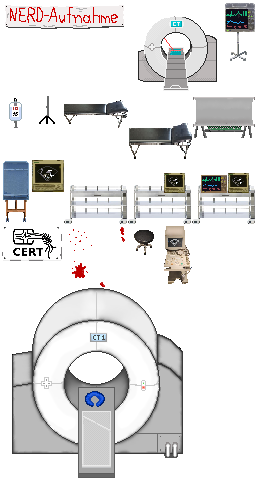
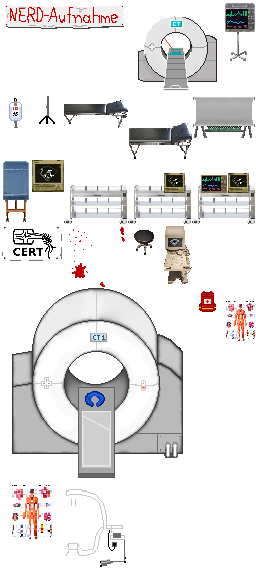
cert_set loaded new

diff --git a/cert_set.tsx b/cert_set.tsx
@@ -1,0 +1,4 @@
+<?xml version="1.0" encoding="UTF-8"?>
+<tileset version="1.4" tiledversion="1.4.2" name="cert_set" tilewidth="32" tileheight="32" tilecount="144" columns="8">
+ <image source="cert_set.png" width="256" height="576"/>
+</tileset>

diff --git a/misc_set.tsx b/misc_set.tsx
@@ -1,0 +1,4 @@
+<?xml version="1.0" encoding="UTF-8"?>
+<tileset version="1.4" tiledversion="1.4.2" name="misc_set" tilewidth="32" tileheight="32" tilecount="28" columns="2">
+ <image source="misc_set.png" width="64" height="461"/>
+</tileset>
